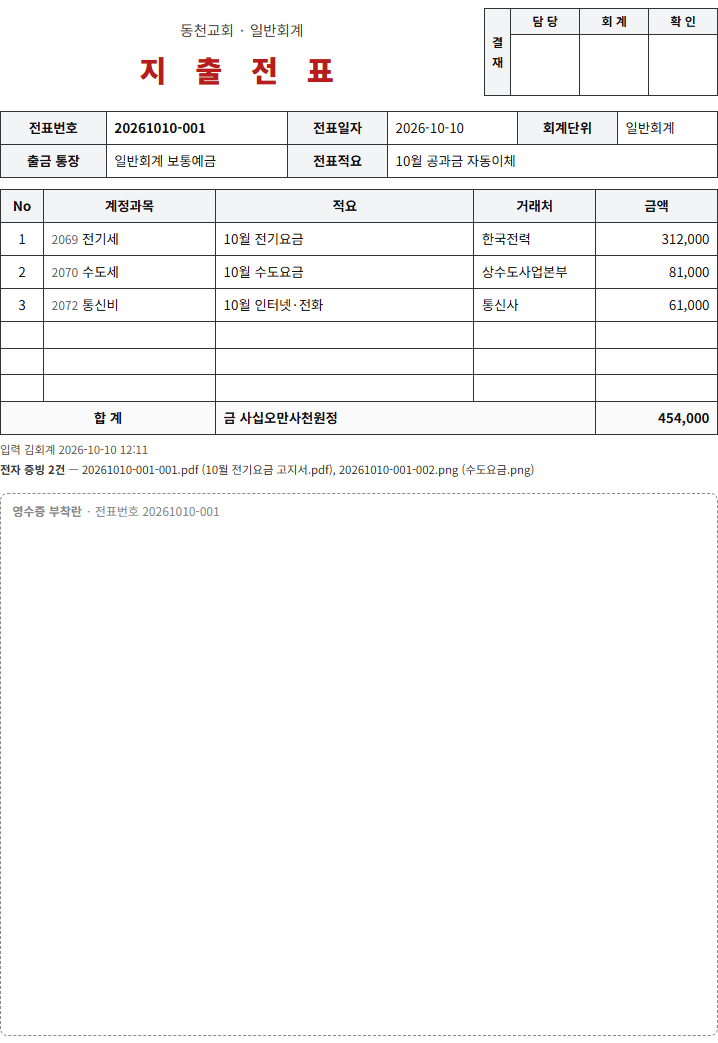
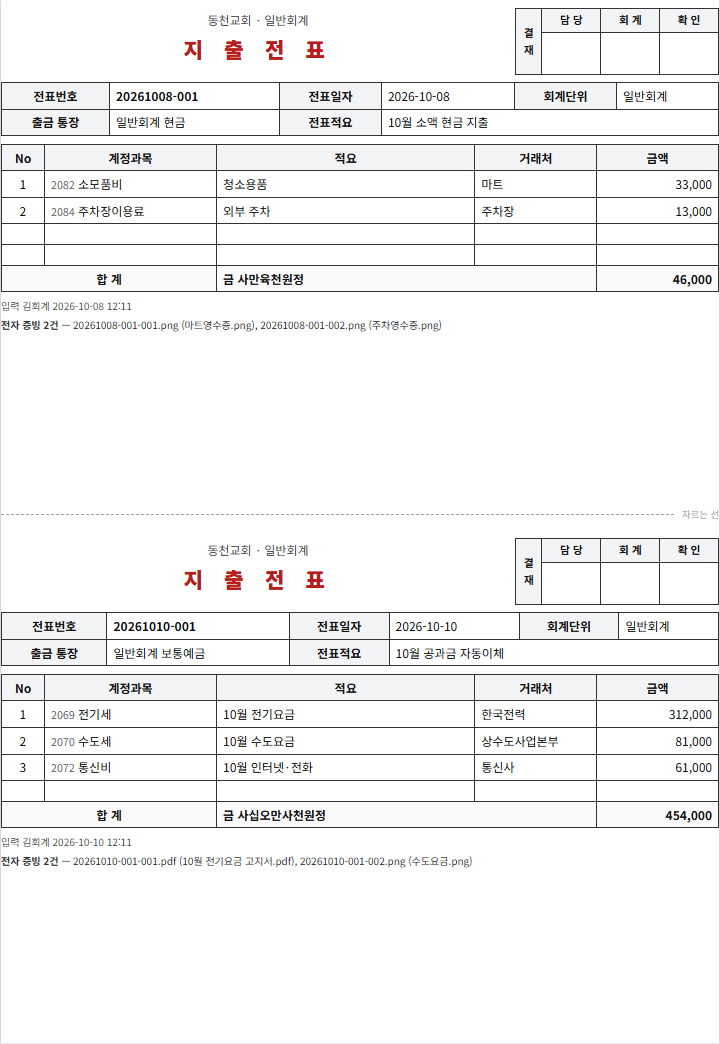
전표 출력: A4 1장에 2건(가운데 자르는 선) 기본, 영수증 부착란 제거(뒷면 부착)
- 영수증 실물은 출력한 전표 뒷면에 붙이므로 부착란 삭제, 단면 인쇄 안내
- 기본 '한 장에 2건' — 위·아래 반쪽에 전표 1건씩, 가운데 점선(자르는 선). 1건이면 위쪽 반만.
  항목 9줄 이상 전표는 반쪽에 안 들어가 그 전표만 1장 전체. '한 장에 1건' 선택 가능
- 반쪽용 압축 서식(제목·결재란·표 글자 축소), 증빙 이미지 이어 인쇄는 해당 장 다음에
- 버튼 설명·매뉴얼 문구와 출력 캡처 갱신

diff --git a/src/app/accounting/vouchers/print/page.tsx b/src/app/accounting/vouchers/print/page.tsx
@@ -1,15 +1,17 @@
 "use client";
 
-import { Fragment, Suspense, useEffect, useMemo, useState } from "react";
+import { Suspense, useEffect, useMemo, useState } from "react";
 import { useSearchParams } from "next/navigation";
 import { evidenceNo, evidenceUrl, type EvidenceItem } from "@/components/accounting/Evidence";
 
 /**
- * 전표 출력 — 전표 1장 = A4 1쪽.
- *   위: 전표 내용(결재란 · 전표정보 · 항목 · 합계 · 증빙 목록)
- *   아래: 영수증 부착란 (실물 영수증을 붙여 보관)
- *   ?ids=1,2,3  여러 전표를 한 번에 (전표마다 새 쪽)
- *   화면 옵션 "증빙 이미지도 인쇄" — 이미지 증빙을 전표 뒤 쪽에 이어서 인쇄 (PDF 는 목록만)
+ * 전표 출력 — 기본: A4 1장에 전표 2건(위·아래 반쪽, 가운데 자르는 선). 1건이면 위쪽 반만.
+ *   선택: 1장에 1건.
+ *   결재란 · 전표정보 · 항목 · 합계 · 전자 증빙 목록
+ *   실물 영수증은 출력한 전표(자른 반쪽) 뒷면에 붙여 보관 → 단면 인쇄 (뒷면을 비워 둠)
+ *   항목이 많아 반쪽에 다 안 들어가는 전표(MAX_HALF_ITEMS 초과)는 자동으로 1장을 다 쓴다.
+ *   ?ids=1,2,3  여러 전표를 한 번에
+ *   화면 옵션 "증빙 이미지도 인쇄" — 이미지 증빙을 그 전표가 있는 쪽 다음에 이어서 인쇄 (PDF 는 목록만)
  */
 
 interface PrintVoucher {
@@ -74,14 +76,20 @@ function stamp(at: string | null | undefined): string {
 
 const isImage = (m: string) => m.startsWith("image/") && m !== "image/heic";
 
-function VoucherSheet({ v }: { v: PrintVoucher }) {
+type Page =
+  | { kind: "slips"; two: boolean; list: PrintVoucher[] }
+  | { kind: "image"; v: PrintVoucher; a: EvidenceItem };
+
+/** 반쪽(한 장에 2건)에 넣을 수 있는 최대 항목 수 — 넘으면 그 전표만 한 장을 다 씀 */
+const MAX_HALF_ITEMS = 8;
+
+function VoucherSlip({ v, half }: { v: PrintVoucher; half?: boolean }) {
   const income = v.type === "D";
   const atts = v.attachments ?? [];
-  const minRows = 6;
+  const minRows = half ? 4 : 6;
   const blanks = Math.max(0, minRows - v.items.length);
   return (
-    <section className="sheet">
-      <div className="sheet-inner">
+    <div className={half ? "slip half" : "slip full"}>
         {/* 제목 + 결재란 */}
         <div className="head">
           <div className="title-box">
@@ -191,31 +199,7 @@ function VoucherSheet({ v }: { v: PrintVoucher }) {
           )}
         </div>
 
-        {/* 영수증 부착란 */}
-        <div className="attach">
-          <div className="attach-label">
-            영수증 부착란 <span>· 전표번호 {v.voucherNo}</span>
-          </div>
-        </div>
-      </div>
-    </section>
-  );
-}
-
-function EvidencePages({ v }: { v: PrintVoucher }) {
-  const imgs = (v.attachments ?? []).filter((a) => isImage(a.mimeType));
-  return (
-    <>
-      {imgs.map((a) => (
-        <section className="sheet ev-sheet" key={a.id}>
-          <div className="ev-head">
-            {v.voucherNo} 증빙 — {evidenceNo(a)} ({a.origName})
-          </div>
-          {/* eslint-disable-next-line @next/next/no-img-element */}
-          <img src={evidenceUrl(a.id)} alt={a.origName} className="ev-img" />
-        </section>
-      ))}
-    </>
+    </div>
   );
 }
 
@@ -226,6 +210,7 @@ function PrintInner() {
   const [error, setError] = useState<string | null>(ids ? null : "출력할 전표가 없습니다.");
   const [loading, setLoading] = useState(!!ids);
   const [withImages, setWithImages] = useState(false);
+  const [perPage, setPerPage] = useState<1 | 2>(2); // 기본: A4 1장에 2건
 
   useEffect(() => {
     if (!ids) return;
@@ -241,6 +226,35 @@ function PrintInner() {
       .catch((e) => setError(e instanceof Error ? e.message : "불러오기 실패"))
       .finally(() => setLoading(false));
   }, [ids]);
+
+  // 쪽 구성 — 2건 모드: 반쪽 두 개씩 채우되, 항목이 많은 전표는 한 장을 다 쓴다(순서 유지)
+  const pages = useMemo(() => {
+    const out: Page[] = [];
+    const images = (vs: PrintVoucher[]) => {
+      if (!withImages) return;
+      for (const v of vs) for (const a of v.attachments ?? []) if (isImage(a.mimeType)) out.push({ kind: "image", v, a });
+    };
+    let pending: PrintVoucher[] = [];
+    const flush = () => {
+      if (pending.length === 0) return;
+      out.push({ kind: "slips", two: true, list: pending });
+      images(pending);
+      pending = [];
+    };
+    for (const v of vouchers) {
+      if (perPage === 1 || v.items.length > MAX_HALF_ITEMS) {
+        flush();
+        out.push({ kind: "slips", two: false, list: [v] });
+        images([v]);
+        continue;
+      }
+      pending.push(v);
+      if (pending.length === 2) flush();
+    }
+    flush();
+    return out;
+  }, [vouchers, perPage, withImages]);
+  const sheetCount = pages.filter((p) => p.kind === "slips").length;
 
   const imageCount = useMemo(
     () => vouchers.reduce((s, v) => s + (v.attachments ?? []).filter((a) => isImage(a.mimeType)).length, 0),
@@ -299,11 +313,83 @@ function PrintInner() {
           box-shadow: 0 2px 8px rgba(0, 0, 0, 0.15);
           overflow: hidden;
         }
-        .sheet-inner {
-          height: 100%;
+        .slip {
           display: flex;
           flex-direction: column;
           padding: 2mm 0;
+        }
+        .slip.full {
+          height: 100%;
+        }
+        /* 한 장에 2건 — 위·아래 반쪽 (A4 인쇄 영역 약 277mm) */
+        .sheet.two {
+          display: flex;
+          flex-direction: column;
+        }
+        .slip.half {
+          height: 133mm;
+          overflow: hidden;
+        }
+        .cut {
+          position: relative;
+          height: 0;
+          margin: 3mm 0 4mm;
+          border-top: 1px dashed #9ca3af;
+        }
+        .cut span {
+          position: absolute;
+          right: 0;
+          top: -2.2mm;
+          font-size: 7pt;
+          color: #9ca3af;
+          background: #fff;
+          padding-left: 1.5mm;
+        }
+        .half .head {
+          margin-bottom: 2mm;
+        }
+        .half .title-box {
+          padding-top: 1mm;
+        }
+        .half .church {
+          font-size: 9pt;
+        }
+        .half .title-box h1 {
+          font-size: 16pt;
+          margin-top: 1mm;
+        }
+        .half .sign {
+          width: 54mm;
+        }
+        .half .sign th,
+        .half .sign td {
+          font-size: 8pt;
+        }
+        .half .sign td {
+          height: 11mm;
+        }
+        .half .info th,
+        .half .info td,
+        .half .items th,
+        .half .items td {
+          padding: 1mm 1.6mm;
+          font-size: 9pt;
+        }
+        .half .info {
+          margin-bottom: 2mm;
+        }
+        .half .items .blank td {
+          height: 5.5mm;
+        }
+        .half .code {
+          font-size: 8pt;
+        }
+        .half .kor {
+          font-size: 9pt;
+        }
+        .half .meta,
+        .half .evid {
+          font-size: 7.5pt;
         }
         .head {
           display: flex;
@@ -414,25 +500,6 @@ function PrintInner() {
           margin-top: 1mm;
           word-break: break-all;
         }
-        .attach {
-          flex: 1;
-          margin-top: 4mm;
-          border: 1.5px dashed #888;
-          border-radius: 2mm;
-          position: relative;
-          min-height: 60mm;
-        }
-        .attach-label {
-          position: absolute;
-          top: 2mm;
-          left: 3mm;
-          font-size: 9pt;
-          color: #888;
-          font-weight: 600;
-        }
-        .attach-label span {
-          font-weight: 400;
-        }
         .ev-sheet {
           display: flex;
           flex-direction: column;
@@ -455,7 +522,19 @@ function PrintInner() {
       <div className="no-print sticky top-0 z-10 mb-4 flex flex-wrap items-center gap-3 border-b border-gray-300 bg-white px-4 py-3 shadow-sm">
         <b className="text-gray-800">전표 출력</b>
         <span className="text-sm text-gray-500">
-          {loading ? "불러오는 중..." : `${vouchers.length}장 · 전표 1장 = A4 1쪽 (아래쪽 영수증 부착란)`}
+          {loading
+            ? "불러오는 중..."
+            : `전표 ${vouchers.length}건 · A4 ${sheetCount}장 · 뒷면에 영수증을 붙이므로 프린터는 '단면 인쇄'로`}
+        </span>
+        <span className="flex items-center gap-3 text-sm text-gray-700">
+          <label className="flex items-center gap-1">
+            <input type="radio" checked={perPage === 2} onChange={() => setPerPage(2)} />
+            한 장에 2건
+          </label>
+          <label className="flex items-center gap-1">
+            <input type="radio" checked={perPage === 1} onChange={() => setPerPage(1)} />
+            한 장에 1건
+          </label>
         </span>
         <label className="flex items-center gap-1.5 text-sm text-gray-700">
           <input type="checkbox" checked={withImages} onChange={(e) => setWithImages(e.target.checked)} />
@@ -482,12 +561,33 @@ function PrintInner() {
       {error && <div className="no-print mx-auto max-w-xl rounded bg-red-50 p-3 text-sm text-red-700">{error}</div>}
 
       {/* 쪽(section)들을 형제로 두어 마지막 쪽만 쪽나눔 없이 */}
-      {vouchers.map((v) => (
-        <Fragment key={v.id}>
-          <VoucherSheet v={v} />
-          {withImages && <EvidencePages v={v} />}
-        </Fragment>
-      ))}
+      {pages.map((pg, i) =>
+        pg.kind === "image" ? (
+          <section className="sheet ev-sheet" key={`i${i}`}>
+            <div className="ev-head">
+              {pg.v.voucherNo} 증빙 — {evidenceNo(pg.a)} ({pg.a.origName})
+            </div>
+            {/* eslint-disable-next-line @next/next/no-img-element */}
+            <img src={evidenceUrl(pg.a.id)} alt={pg.a.origName} className="ev-img" />
+          </section>
+        ) : pg.two ? (
+          <section className="sheet two" key={`p${i}`}>
+            <VoucherSlip v={pg.list[0]} half />
+            {pg.list[1] && (
+              <>
+                <div className="cut">
+                  <span>자르는 선</span>
+                </div>
+                <VoucherSlip v={pg.list[1]} half />
+              </>
+            )}
+          </section>
+        ) : (
+          <section className="sheet" key={`p${i}`}>
+            <VoucherSlip v={pg.list[0]} />
+          </section>
+        ),
+      )}
     </div>
   );
 }

diff --git a/scripts/help/accounting.ts b/scripts/help/accounting.ts
@@ -123,7 +123,7 @@ ${table([
   ["공과금 일부를 사택에서 돌려받았어요.", "같은 계정(전기세 등)에 <strong>음수</strong>로 지출 입력합니다(예: -42,000). 수입으로 넣지 않습니다."],
   ["십일조 돈을 일반회계 지출에 썼어요.", "회계 간 대체로 십일조 → 일반회계 <em>대여</em>(또는 <em>지원</em>)를 먼저 넣고, 일반회계에서 지출 전표를 입력합니다."],
   ["마감된 달의 전표를 고쳐야 해요.", "[월마감]에서 그 달 마감을 해제(관리자)한 뒤 고치고 다시 마감합니다."],
-  ["영수증은 어떻게 보관하나요?", "전표에 영수증 사진·PDF 를 <strong>증빙자료</strong>로 올리고(서버에 전표번호-001 순으로 저장), [전표현황] 또는 전표입력의 <strong>전표 출력</strong>으로 A4 전표를 인쇄해 아래 부착란에 실물을 붙여 보관합니다."],
+  ["영수증은 어떻게 보관하나요?", "전표에 영수증 사진·PDF 를 <strong>증빙자료</strong>로 올리고(서버에 전표번호-001 순으로 저장), [전표현황] 또는 전표입력의 <strong>전표 출력</strong>으로 인쇄(A4 1장에 2건)해 반으로 자른 뒤 <strong>뒷면</strong>에 실물을 붙여 보관합니다(단면 인쇄)."],
   ["전표가 어느 통장으로 들어갔는지 보고 싶어요.", "[전표입력] 아래 '오늘의 전표' 목록 오른쪽에 통장 이름이 나옵니다(기본 통장으로 들어간 전표는 생략). 통장별 합계는 [통장현황·이체]에서 확인합니다."],
 ])}
 `;
@@ -218,18 +218,20 @@ ${I("vouchers-account", "계정명 '전기세'로 1~10월 조회 — ② 월계 
 ${tip("수기장부의 계정별 원장과 맞춰 볼 때: 회계단위 + 계정명 + 1월 1일~월말로 조회 → 월계·누계를 장부와 비교하세요.")}
 
 <h3>증빙자료 보기</h3>
-${I("evidence-list", "① 증빙이 있는 전표의 클립 표시(개수) ② 조회된 전표 전체 출력")}
+${I("evidence-list", "① 증빙이 있는 전표의 클립 표시(개수) ② 조회된 전표 출력")}
 ${I("evidence-viewer", "증빙 보기 창 — 이전·다음, 내려받기, 새 창")}
 <p>${num(1)} 전표번호 아래 클립 표시를 누르면 증빙 보기 창이 열립니다. 사진은 바로 보이고 PDF 는 창 안에서 넘겨 볼 수 있습니다. 위쪽에 서버 저장 이름(증빙번호)과 올린 파일 이름이 나옵니다. 아이폰 HEIC 사진은 <strong>내려받기</strong>로 엽니다.</p>
 
-<h3>전표 출력 — 영수증 실물 붙여 보관</h3>
-${I("voucher-print", "전표 출력 (A4 1장) — 결재란 · 전표 내용 · 전자 증빙 목록 · 영수증 부착란")}
+<h3>전표 출력 — 뒷면에 영수증 실물 붙여 보관</h3>
+${I("voucher-print", "전표 출력 — A4 1장에 전표 2건, 가운데 자르는 선")}
 <ul>
-  <li>전표 1장이 A4 1쪽으로 나옵니다. 위쪽에 <strong>결재란(담당 · 회계 · 확인)</strong>, 전표번호 · 일자 · 회계 · 통장 · 항목 · 합계(한글 금액 포함), 입력자가 들어갑니다.</li>
+  <li>기본은 <strong>A4 1장에 전표 2건</strong>(위·아래 반쪽)입니다. 가운데 점선(자르는 선)으로 잘라 씁니다. 1건만 출력하면 위쪽 반에만 나옵니다.</li>
+  <li>항목이 9줄 이상인 전표는 반쪽에 다 들어가지 않아 그 전표만 1장을 다 씁니다. 출력 화면 위에서 <strong>한 장에 1건</strong>을 고를 수도 있습니다.</li>
+  <li>전표마다 <strong>결재란(담당 · 회계 · 확인)</strong>, 전표번호 · 일자 · 회계 · 통장 · 항목 · 합계(한글 금액 포함), 입력자가 들어갑니다.</li>
   <li><strong>전자 증빙</strong> 줄에 올려 둔 증빙번호가 적힙니다 — 서버 파일과 종이 전표를 맞춰 볼 수 있습니다.</li>
-  <li>아래쪽 <strong>영수증 부착란</strong>에 실물 영수증을 풀로 붙여 보관합니다.</li>
-  <li>한 장씩: 전표 수정 창(또는 전표입력에서 불러온 전표)의 <strong>전표 출력</strong>. 여러 장: 조회 후 위쪽 ${num(2)} <strong>전표 출력</strong> — 조회된 전표가 한 장씩 이어서 나옵니다.</li>
-  <li>출력 화면 위 <strong>증빙 이미지도 이어서 인쇄</strong>를 켜면 사진 증빙이 전표 뒤 쪽에 이어서 인쇄됩니다(PDF 증빙은 목록만).</li>
+  <li>자른 전표 <strong>뒷면</strong>에 실물 영수증을 붙여 보관합니다. 뒷면이 비도록 프린터는 <strong>단면 인쇄</strong>로 두세요(양면이면 다른 전표가 뒷면에 찍힙니다).</li>
+  <li>한 건: 전표 수정 창(또는 전표입력에서 불러온 전표)의 <strong>전표 출력</strong>. 여러 건: 조회 후 위쪽 ${num(2)} <strong>전표 출력</strong> — 조회된 전표가 2건씩 이어서 나옵니다.</li>
+  <li>출력 화면 위 <strong>증빙 이미지도 이어서 인쇄</strong>를 켜면 사진 증빙이 그 전표가 있는 장 다음에 이어서 인쇄됩니다(PDF 증빙은 목록만).</li>
 </ul>
 
 <h3>전표 고치기</h3>

diff --git a/src/app/accounting/vouchers/page.tsx b/src/app/accounting/vouchers/page.tsx
@@ -564,7 +564,7 @@ export default function VoucherListPage() {
               window.open(`/accounting/vouchers/print?ids=${vouchers.map((v) => v.id).join(",")}`, "_blank");
             }}
             className="px-5 py-2 text-sm rounded-lg border border-gray-400 text-gray-700 hover:bg-gray-50 transition-colors font-medium"
-            title="조회된 전표를 한 장씩(A4) 출력 — 영수증 부착란 포함"
+            title="조회된 전표 출력 — A4 1장에 2건, 가운데를 잘라 뒷면에 영수증 부착 (단면 인쇄)"
           >
             전표 출력
           </button>
@@ -1085,7 +1085,7 @@ export default function VoucherListPage() {
                 target="_blank"
                 rel="noopener"
                 className="mr-auto px-4 py-2 text-sm rounded-lg border border-gray-300 text-gray-700 hover:bg-gray-100 transition-colors"
-                title="이 전표를 A4 한 장으로 출력 (영수증 부착란 포함)"
+                title="이 전표 출력 (A4 반쪽) — 뒷면에 영수증을 붙여 보관 (단면 인쇄)"
               >
                 전표 출력
               </a>

diff --git a/src/app/accounting/entry/page.tsx b/src/app/accounting/entry/page.tsx
@@ -888,7 +888,7 @@ export default function VoucherEntryPage() {
                 target="_blank"
                 rel="noopener"
                 className="px-4 py-2 text-sm rounded-lg border border-gray-300 text-gray-700 hover:bg-gray-50 transition-colors"
-                title="이 전표를 A4 한 장으로 출력 (영수증 부착란 포함)"
+                title="이 전표 출력 (A4 반쪽) — 뒷면에 영수증을 붙여 보관 (단면 인쇄)"
               >
                 전표 출력
               </a>
